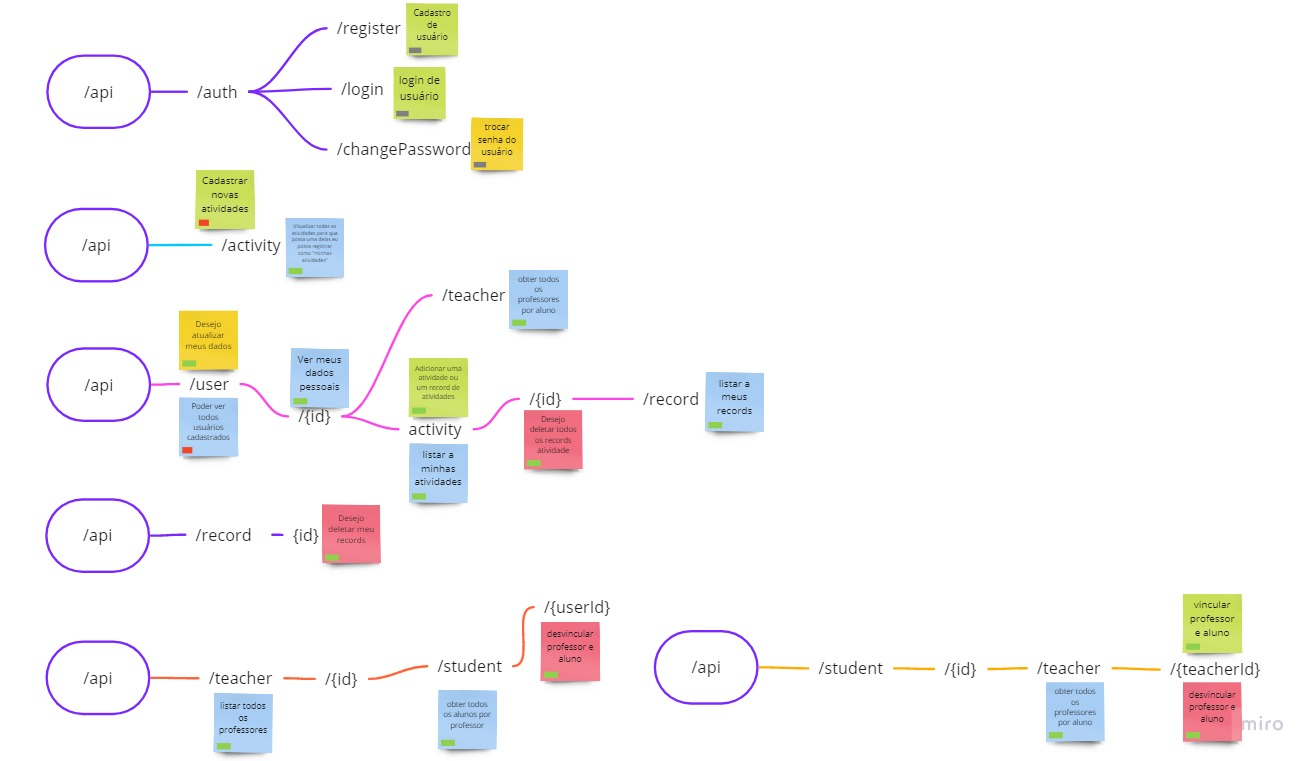
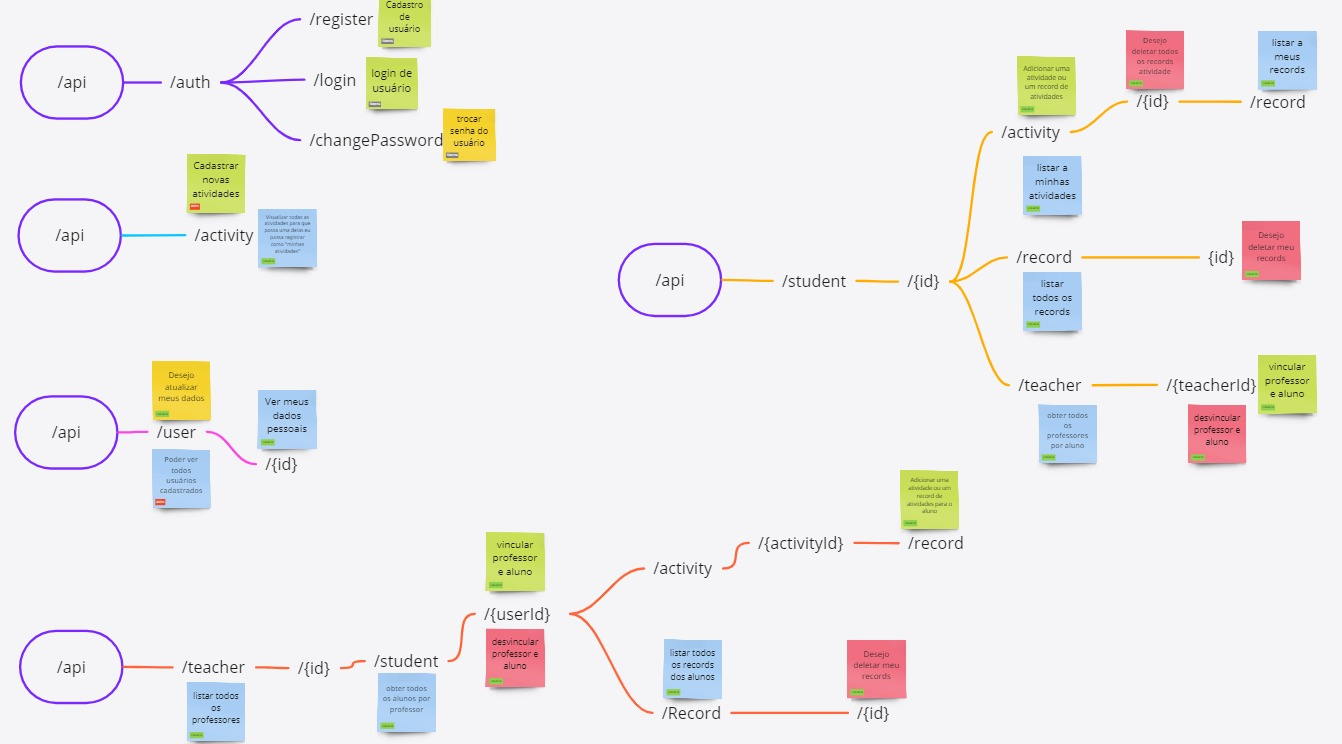
docs: update readme

diff --git a/README.md b/README.md
@@ -31,7 +31,6 @@ Temos 3 tipos de users:
   - [Rotas de Usuário](#rotas-usuário)
     - [Atualizar dados do usuário](#atualizar-dados-do-usuário)
     - [Listar todas os usuários](#listar-todas-os-usuários)
-    - [Listar todas as atividades do aluno](#listar-todas-as-atividades-do-aluno)
     - [Obter dados de usuário por id](#obter-dados-de-usuário-por-id)
   - [Rotas de Atividade](#rotas-atividade)
     - [Adicionar uma nova atividade](#adicionar-uma-nova-atividade)
@@ -50,6 +49,8 @@ Temos 3 tipos de users:
     - [Listar todas os professores do aluno](#listar-todas-os-professores-do-aluno)
     - [Vincular aluno no professor](#vincular-aluno-no-professor)
     - [Remover professor por aluno](#remover-professor-por-aluno)
+    - [Listar todas as atividades do aluno](#listar-todas-as-atividades-do-aluno)
+
 - [Release 📦](#release-📦)
 - [Autores 🧑🤝🧑](#autores-🧑🤝🧑)
 - [License 🪪](#license-🪪)
@@ -66,10 +67,11 @@ Temos 3 tipos de users:
 - [Mapster](https://github.com/MapsterMapper/Mapster): para mapeamento dos objetos com Adapt<>().
 - [ErrorOr](https://github.com/amantinband/error-or): para retorno de api com erro ou o response.
 - [Jwt](https://jwt.io/): para autenticação do usuário.
-- [PasswordHasher](<https://learn.microsoft.com/en-us/previous-versions/aspnet/dn468192(v%3dvs.108)>): hasher de senha do usuário.
+- [PasswordHasher](<https://github.com/BcryptNet/bcrypt.net>): hasher de senha do usuário com bcrypt.net.
 - [Sqlite](https://www.sqlite.org/docs.html): apenas como banco de dados de desenvolvimento.
 - [Xunit](https://xunit.net): projeto de testes de unidade.
 - [Moq](https://github.com/moq): mocar dependencias para testes.
+- [Testcontainers](https://dotnet.testcontainers.org/): gerar conteiners de banco de dados para testes de integração.
 
 ## Tools
 
@@ -145,7 +147,7 @@ docker compose up
 
 - Fluxos do usuário
 
-    <img src="assets/Flow.jpg" alt="drawing" width="1000px"/>
+    <img src="assets/Flow.png" alt="drawing" width="1000px"/>
 
 - Mapeamento das rotas
 
@@ -304,40 +306,6 @@ Patch /api/user/{userId}
   "email": "josé.silva@gmail.com",
   "firstName": "José#NomeTrocado",
   "lastName": "Silva"
-}
-```
-
-### Listar todas as atividades do aluno
-
-- Autenticação: Apenas o dono do recurso.
-- Detalhes: Listar todas as atividades que o aluno participa.
-
-```
-Get /api/user/{userId}/activity
-```
-
-#### Request
-
-```json
-sem corpo de requisição
-```
-
-#### Response 200 Ok
-
-```json
-{
-  "items": [
-    {
-      "name": "pular corda",
-      "id": "00000000-0000-0000-0000-000000000000"
-    },
-    {
-      "name": "flexão de braço",
-      "id": "00000000-0000-0000-0000-000000000000"
-    }
-  ],
-  "perPage": 2,
-  "pageNumber": 4
 }
 ```
 
@@ -761,6 +729,42 @@ sem corpo de requisição
 ```json
 sem corpo de resposta
 ```
+
+
+### Listar todas as atividades do aluno
+
+- Autenticação: Apenas o dono do recurso.
+- Detalhes: Listar todas as atividades que o aluno participa.
+
+```
+Get /api/student/{userId}/activity
+```
+
+#### Request
+
+```json
+sem corpo de requisição
+```
+
+#### Response 200 Ok
+
+```json
+{
+  "items": [
+    {
+      "name": "pular corda",
+      "id": "00000000-0000-0000-0000-000000000000"
+    },
+    {
+      "name": "flexão de braço",
+      "id": "00000000-0000-0000-0000-000000000000"
+    }
+  ],
+  "perPage": 2,
+  "pageNumber": 4
+}
+```
+
 
 # Release 📦
 
